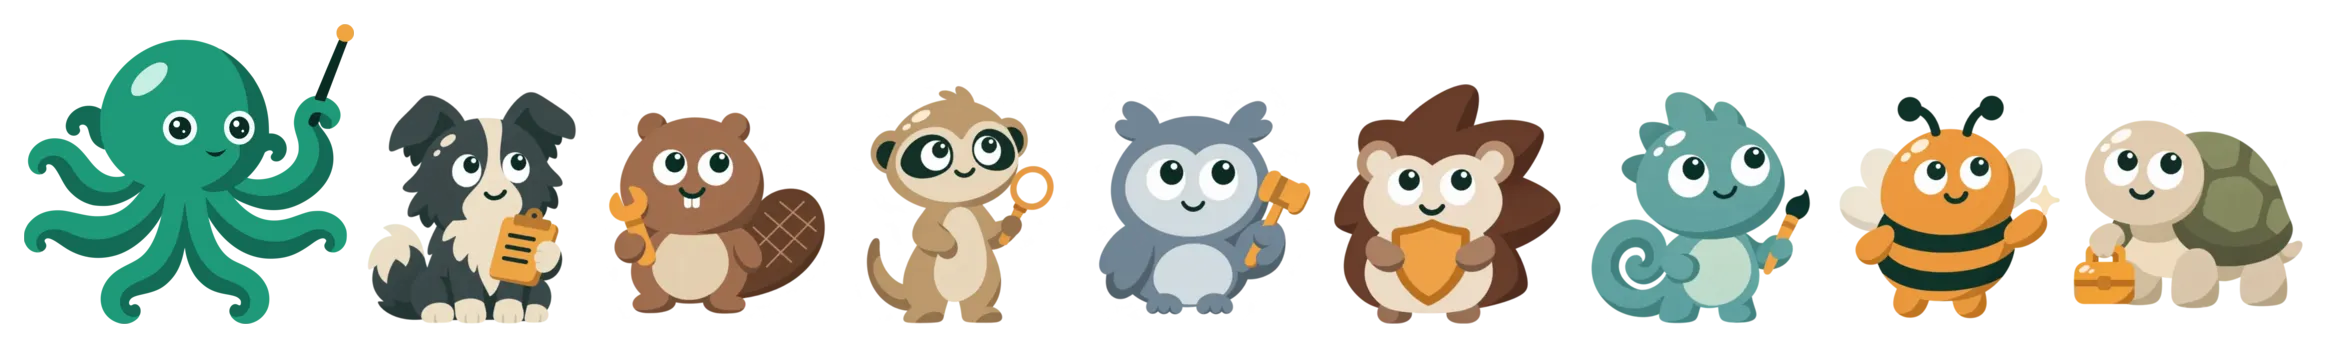
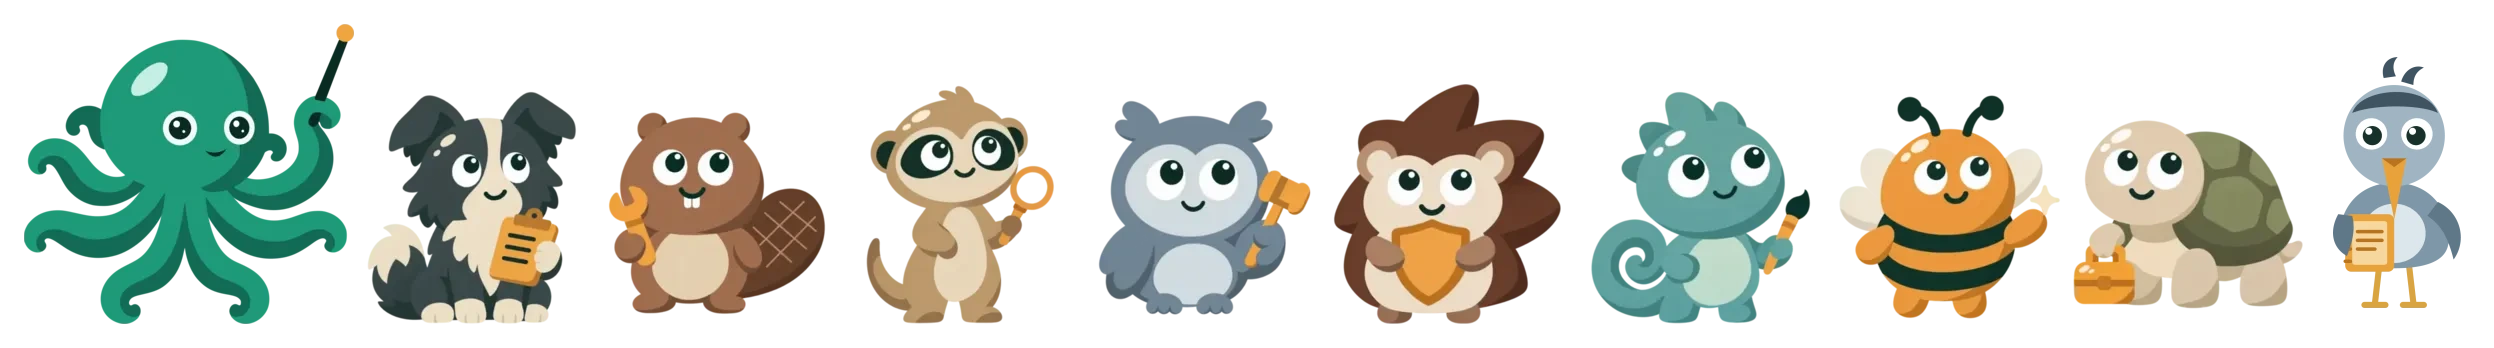
feat(team): draw the Technical writer as the heron after the tortoise in the team strip

diff --git a/docs/design/mocks/team.html b/docs/design/mocks/team.html
@@ -126,6 +126,7 @@
     <div class="role"><h3>Designer</h3><p>Joins when a task changes what people see.</p><p class="meta"><span>Model L</span><span>Work subscription</span></p></div>
     <div class="role"><h3>Security engineer</h3><p>Reviews anything touching secrets, logins or protected files.</p><p class="meta"><span>Model L</span><span>Overflow key</span></p></div>
     <div class="role"><h3>Maintainer</h3><p>Hands stalled work over, resolves conflicts and re-queues tasks.</p><p class="meta"><span>Model S</span><span>Overflow key</span></p></div>
+    <div class="role"><h3>Technical writer</h3><p>Joins when a change touches the pages people read and checks that a reader can follow them.</p><p class="meta"><span>Model M</span><span>Work subscription</span></p></div>
   </div>
 </aside>
 </div>

diff --git a/tests/Application/ReadmeTeamPictureTest.php b/tests/Application/ReadmeTeamPictureTest.php
@@ -10,20 +10,20 @@ use PHPUnit\Framework\TestCase;
 #[CoversNothing]
 final class ReadmeTeamPictureTest extends TestCase
 {
-    private const array ROLES = ['Tech lead', 'Developer', 'Code reviewer', 'Judge', 'Security engineer', 'Designer', 'AI engineer', 'Maintainer'];
+    private const array ROLES = ['Tech lead', 'Developer', 'Code reviewer', 'Judge', 'Security engineer', 'Designer', 'AI engineer', 'Maintainer', 'Technical writer'];
 
     public function testTheTeamPictureServesTheDarkImageForADarkColorScheme(): void
     {
         $picture = $this->picture();
 
-        self::assertSame(1, preg_match('/<source media="\(prefers-color-scheme: dark\)" srcset="docs\/assets\/team-dark\.webp" width="760" height="116">/', $picture));
+        self::assertSame(1, preg_match('/<source media="\(prefers-color-scheme: dark\)" srcset="docs\/assets\/team-dark\.webp" width="760" height="104">/', $picture));
         self::assertFileExists($this->root().'/docs/assets/team-dark.webp');
     }
 
     // One sharp file per theme, shown at 760 px: phones that skip a srcset would otherwise stretch a 760 px file and blur it.
     public function testTheTeamPictureDimensionsMatchTheImageFilesTheyDescribe(): void
     {
-        foreach (['light' => 113, 'dark' => 116] as $theme => $height) {
+        foreach (['light' => 101, 'dark' => 104] as $theme => $height) {
             $image = getimagesize($this->root().'/docs/assets/team-'.$theme.'.webp');
 
             self::assertIsArray($image);
@@ -41,7 +41,7 @@ final class ReadmeTeamPictureTest extends TestCase
         self::assertFileExists($this->root().'/docs/assets/team-light.webp');
     }
 
-    public function testTheTeamPictureAltNamesTheOctopusAndAllEightRoles(): void
+    public function testTheTeamPictureAltNamesTheOctopusAndAllNineRoles(): void
     {
         $alt = $this->imgAttribute('alt');
 
@@ -75,7 +75,7 @@ final class ReadmeTeamPictureTest extends TestCase
         self::assertIsInt($screenshot, 'The README shows the review page on its first screen.');
         $picture = (int) strpos($readme, '<picture>', $screenshot);
         $release = (int) strpos($readme, '## Status');
-        $line = 'Tech lead, Developer, Code reviewer, Judge, Security engineer, Designer, AI engineer and Maintainer';
+        $line = 'Tech lead, Developer, Code reviewer, Judge, Security engineer, Designer, AI engineer, Maintainer and Technical writer';
 
         self::assertGreaterThan($screenshot, $picture);
         self::assertLessThan($release, $picture);

diff --git a/docs/architecture/dashboard.md b/docs/architecture/dashboard.md
@@ -88,4 +88,4 @@ Plan task T20, parts 1 to 3 (design: [Dashboard](../design/05-architecture/13-da
 - **The drop reason on the review page (#2278, part 3 of #2215, decision D1 in part):** `RoundPayloads::droppedOf()` reads the `dropped` entries of a `judge_done` row one by one into the Review module's `Contract/DroppedFinding` (an unreadable entry is left out; a row without the key reads with none), and `judgeOf()` leaves `dropped` unread beside `findings`, so a bad drop entry never un-judges the round. `LedgerRounds` maps each into a `Domain/RoundFinding` whose `droppedBecause` is the reason and whose `quotes` is the Review contract's `CountedQuotes::of()` of its text (a `QuotesCounted`, the quotes the quote check counted, in its order, so as many as the reason names; #3171, part 2 of #3144; `LedgerReviewPages` passes its `CountedQuotes` in), and sets the list with `ReviewedRound::withDropped()` on a judged round, so the live judged update (`MercureRoundUpdates`, which renders the same `ReviewedRound`) carries it too. `_judged_round.html.twig` lists them after the judged cards as `<li data-finding="<id>" data-dropped="<id>">` (the `data-finding` lets `finding-highlight.js` and `task-panes.js` reach a dropped card from a finding id, as they reach a judged one) with the severity chip, the text (autoescaped, through `_finding_card_text.html.twig` as on a judged card: the headline as the title, the whole text below it when it goes on), the place, `p.fc-call` "Quote not found in the code" and a closed `details.fc-quotes` ("Quoted code") holding `ul.fc-quote-list` with one `<code>` per counted quote, under each the changed lines the row recorded for it as `ul.fc-near-lines` (one item per line, `span.fc-near-place` `<file>:<line>` in mono and the line's text in `<code>`, autoescaped; the list is left out when the row recorded no line for the quote, as for a row written before `DroppedFinding::$nearest` existed; `LedgerRounds` passes `$nearest` into `RoundFinding`, whose `nearLinesOf()` finds the entry whose recorded `quote` equals the counted quote with `array_find()`, so a repeated quote shows its lines each time and the page never reads the change; a quote whose recorded form differs from the counted one, because the recording redacted it (the quote is kept whole, never cut), shows no lines; the lines are styled as an indented list taking the whole row), and `p.fc-unchecked` "File names, numbers and suggested-fix blocks are not checked." (both only when the check counted a quote) and `p.fc-reason` `Dropped before the judge: <reason>` (all autoescaped; the template never reads the quotes from the text itself, neither through `finding_spans()` nor otherwise; `assets/styles/components.css` styles the summary as a link-colored control with the shared chevron, at least 44 px tall at 760 px wide or narrower, and the quotes as wrapping code chips that keep a quote's line breaks and indentation, `white-space: pre-wrap`; the demo recording's captured judged update holds the same row, see [Demo recording](demo-recording.md)); a dropped finding is not in `findings`, so it is not counted in `ReviewSummary`'s finding count, and a round with only dropped findings no longer reads "The reviewers reported no findings". Tests: `LedgerRoundsTest`, `JudgedRoundFindingsPageTest`, and `MergedActEntryPageTest`, which runs a round through `ReviewChange` with a finding quoting an absent name (shown as dropped with its reason) and one with only an absent symbol (judged).
 - **A judged round's findings as cards (#2254, part 2 of #2202, decisions D3 and D4):** `_judged_round.html.twig` (which `_round_body.html.twig` includes, and the judged round's live update renders, see above) lists a judged round's findings as `ul.finding-cards` (one grid column, no `.table-scroll` box) of `li.finding-card`, each keeping `id="round-<id>-finding-<finding id>"` and `data-finding` (every id of the entry, separated by spaces) for the state block's links and the highlight: a `.sev` chip (the severity, or `Severity not recorded`), `p.fc-title` and, only when the text goes on after its headline (`RoundFinding::goesOnAfterItsHeadline()`), `p.fc-detail` (both from `_finding_card_text.html.twig`: the title is the finding's own id in `.fc-id`, then `.fc-text`, which holds `RoundFinding::headline()` read into spans by `finding_spans`, or `Text not recorded.` when the headline is null; `p.fc-detail` holds the whole text through `_finding_text.html.twig`), `p.fc-place` (`RoundFinding::place()`, `file:line` in mono, the file alone without a line, or `File and line not recorded`), `p.fc-merged` (only on an entry that merged others: `Also reported as` and their ids) and `p.fc-call` (`callInWords()`). `RoundFinding::headline()` trims the text with a Unicode-aware pattern (`[\s\p{Z}]`, so a no-break space or an em space counts as white space) and returns null for a text that is missing, blank or not valid UTF-8; otherwise it finds the closed code spans on the whole text as `FindingText` does (a run of backticks closed by a run of as many, across lines too), and cuts at the first line break or sentence mark (`.`, `!` or `?` followed by white space or the end) outside them, so `` Keep `Ready? yes` as the prompt. More. `` gives `` Keep `Ready? yes` as the prompt. `` and a dot in a name (`src/A.php`, `1.5`) never ends it; an unclosed backtick is a plain character, white space before a cut line break is dropped, and a text with no such cut is its own headline. The text comes from `_finding_text.html.twig`, which the state block's open findings share: it renders `FindingText::spans()` (through the `finding_spans` Twig function, so the session summary's findings, which are the Review module's `Finding`, read backticks the same way), the text split into plain and code spans (a span opens with a run of backticks and closes on a run of as many, as in Markdown, so a span opened by two backticks may hold one; the backticks are dropped and the code trimmed; a run of backticks that closes nothing makes the word after it, up to the next space or backtick, a code span, and is dropped when no word follows, so no backtick is left), the bold and italic marks (`**x**`, `__x__`, `*x*`, `_x_`) around words in the plain spans left out and never in a code span (an opening mark follows the start, a space, a bracket or a quote, curly quotes included, and a closing one precedes the end, a space, a bracket, a quote, a dash (`-`, or an en or em dash, U+2013 or U+2014, so `**read**-only` reads as `read-only`) or a run of punctuation such as `...`, and a closing mark followed by punctuation pairs only when a space, the end, a bracket, a quote, a dash or a code span follows the punctuation, so comma-separated globs such as `*.php,*.twig` keep their stars (only while the list does not end in a star: in `*.php,build*` the first and the last star pair, so it reads as `.php,build`, and written in backticks, `` `*.php,build*` ``, it is a code span that keeps both), `**wrong**,it` stays as written and `**wrong**, it` reads as `wrong, it`; the text between holds no mark of its own character and no blank line, of any length, so `max_retry_count`, `2 * 3`, `src/**/x`, `(*.php|*.twig)`, a star in each of two paragraphs and a lone dunder such as `__DIR__` or `__init_subclass__` keep their marks; a blank line counts with any line ending, `\n`, `\r\n` or a bare `\r`; a mark followed by `/`, or a closing one preceded by `/`, never pairs (so `**ignore paths under /tmp/**` keeps its marks unless the path is written in backticks), and a single mark followed by `.` pairs only around one word, so `*.env*` reads as `.env` while `*.php` and `src/*` keep their stars even in one line, and a double mark followed by `.` pairs around any words, so `**.env stays private**` loses its marks; and `*.*` keeps both stars; limits: `*test.php and build*` in one paragraph still pairs, and so does a star before a dash, since a dash may follow a closing mark, so `Match *-test.php and build*-old.` reads as `Match -test.php and build-old.`; a code span holding a blank line parts two paragraphs too, also when the blank line sits at the span's edge (the span is trimmed only after the marks are read) or is written with the Unicode separators U+2028, U+2029 or U+0085, while a mark right before or after a code span (`` `foo`*bar* ``, `` **x**`y` ``) pairs as after a space; the patterns run twice, so emphasis nested one level deep (`*_both_*`, `*outer _inner_ words*`, `**outer *inner* words**`) loses all its marks; an ellipsis never stands in for a missing closing mark, so `Copy *.php…` and `Match **kwargs…` stay as written on a card, in the Now box, in the session summary and in the live log, while a pair closed right before an ellipsis still loses its marks, so `*Retry*…` reads as `Retry…`), each code span in `<code>` with Twig's escaping, never `raw`. The live log reads the emphasis on the complete first line and cuts afterwards: `ReadFinding::$title` holds the whole first line, and `answer_read.stream.html.twig` renders it through the `finding_title_spans` Twig function (`FindingSpans::ofATitle()`, `FindingText::spansCutTo(160)`), which reads the spans of the whole line and, when their visible text is longer than 160 characters, keeps the first 159 (by characters, a code span cut like the plain text), drops the spaces at the end and adds `…`, so a cut never leaves a mark and a cut `*Test.php` keeps its star. Both partials render the spans through `_finding_spans.html.twig`. `components.css` gives a card the `--raised` background and `overflow-wrap: anywhere`, a code span the `--tint` background, and at 760 px and below wraps the card so its body takes the full width under the chip. Tests: `FindingTextTest` (the spans, a double-backtick span, no empty span, an unmatched backtick before a word and before a space, runs of different lengths, no text; the emphasis cases: bold, italic and underscore marks, marks around code and in code, a closing mark right before a dash, a closing mark before punctuation with and without a space after it (`**wrong**,it`, `**wrong**, it`, `*.php,*.twig`, `*Test.php,*Case.php`), code-like text with a dash after a mark, emphasis ending in a slash, words, arithmetic, paths, dunders, globs, curly quotes, `**.env**`, `**.env stays private**`, long emphasis, paragraphs with each line ending, `*.*`, nested emphasis (`*_both_*`, `_*both*_`, `*outer _inner_ words*`, `**outer *inner* words**`, `__outer *inner* words__`), stars around a code span holding a blank line, one at its edge and Unicode separators, a mark touching a code span from outside, an ellipsis the reviewer wrote, `*Retry*…`, linear time on many unclosed marks, a glob star before a dash pairing with a later star (the known limit), a comma-separated list ending in a star losing both stars and keeping them in backticks; the cut: a text within the limit, one character over it, a cut at each offset around a closing `**`, `__` and `*`, inside multiword emphasis, just after an opening `**`, inside a code span and of multibyte characters, and a glob cut or before the cut keeping its star), `FindingSpansTest` (the `finding_title_spans` Twig function, as the container registers it, dropping emphasis marks and cutting a long title to 160 characters with `…`, and `finding_spans` returning a backtick span as code), `ReadAnswerTest` (a long first line kept whole, a first line ending at `\r\n`, `\n` or a bare `\r`), `ReviewPageLiveUpdatesTest` (a title cut at each offset around its closing mark, a long title naming a glob, and a written ellipsis, on the live log line), `RoundFindingTest` (each place; the headline: the first sentence, a mark inside a code span of one or two backticks, a closed span with no mark after it or a second line below, a span crossing a line, an unclosed backtick, white space before a line break, a long first sentence, Unicode white space, no text and invalid UTF-8; whether the text goes on), `JudgedRoundFindingsPageTest` (a card's chip, id and text, place and call; the headline as the title with the whole text below it, no text below a one-sentence title, `Text not recorded.` for a text of Unicode white space; code spans as code with no backtick left and markup escaped; an unmatched backtick; markup in text and code staying text; each drop reason; a finding without a file; the anchor; no table; the state block's code spans), `TaskDetailStylesTest` (the column of cards, the selected card, the phone rule).
 - Tests: `tests/Core/Dashboard/` has a functional test per page (the ledger in the test container is a double; `ShowReviewControllerTest` covers a two-round review with several reviewers, findings with ids, the judge's call and tokens), `StartReviewControllerTest` (the button dispatches `StartReview` once and redirects to a toast naming the round number and no round id, with no line above the page, and a refused start shows no toast, the page carries the number after the latest round and a stale page sends the number it showed, a missing or wrong token or a missing number dispatches nothing, `RoundNotNext` gives an error line, a failure that is no `ReportableFailure` gives the server error page, no recorded repository gives no button, the label "Start round N", only Stop shown, with the start form behind the in-review marker, with a running reviewer, before any reviewer and after every reviewer finished unjudged, and only "Start round N" once judged), `ReviewPageLiveUpdatesTest` (every reviewer finished unjudged keeps the marker and Stop, a judged round removes both and shows the start), `TaskDetailStylesTest` (the hiding rule), `NoPollingTest` (a list page the hub cannot authorize a listener for holds two scripts, the inline theme and shell scripts, and no script file, module, `http-equiv`, timer, `fetch(` or event source; the review page with the start button no `http-equiv`, timer or `fetch(`), `ShowBoardControllerTest` (`/` is the board with Waiting on you, In review and Done and one Coming next line without a control naming the other six columns, review cards in In review and Done with their project, link, round, reviewers and cost, true counts, every empty column's `BoardColumn::emptyLine()` once a review has run and no empty line in a column with a card, Waiting on you pinned first as the only `col-needs` column with its empty line and a 0 count without amber, a link to the review list, and refuses a foreign host), `TemplateRouteNamesTest` (no template spells a `dashboard_` route name; links take it from `DashboardRoutes`), `FailedReviewerPageTest` (a round run through `ReviewChange` with a scripted vendor that stops one reviewer at the output limit: the page shows it `failed` with `stopped at its output limit`, the outcome `intakt:review` reports, and no class name), `LedgerReviewsTest`, `LedgerRoundsTest` (also the outcome under each case: a failed reviewer beside an approval or a changes verdict, outvoted under `majority`, an unstarted reviewer, an unjudged round, a start without or with an unknown `quorum`) and `ReviewerStopsTest` for rows in today's format, older rows and the skipped payloads, `LedgerFailingHeadsTest` for which failure lines make a card and `RefuseForeignHostTest` for the hosts each page refuses and answers. For the start path: `tests/Plugin/LocalGitForge/StartReviewHandlerTest.php` (no wait for the judge, the expected number passed on, a relative repository recorded absolute, a refused round leaves no snapshot, a start without a source refused), `RemoveKeptSnapshotTest.php` in the same folder (a kept snapshot is removed, the user's checkout and a command's own snapshot are left alone, a failed removal is logged), `DiscardQueuedRoundHandlerTest.php` (the kept snapshot of a rolled-back round is removed, the user's checkout is left alone) and the `RoundJudged` tests in `tests/Core/Review/UseCase/JudgeRound/JudgeRoundTest.php` (announced once, not again for a round judged already).
-- **README team picture (#2412, part 3 of #2345):** `README.md` shows `docs/assets/team-light.webp` (`team-dark.webp` for `prefers-color-scheme: dark`) in a `<picture>` below the "Found and fixed upstream" section, just before "The first release", 760 px wide with its height set, each theme from its one sharp file (at least 2,280 px wide; a 760 px copy is not kept, because phone browsers that skip `srcset` stretched it and blurred the characters; the dark source carries its own height of 116 because its file is slightly taller), `loading="lazy"` and an `alt` naming the octopus and the eight roles; one line under it names the roles in order. It is decoration beside unchanged text. `tests/Application/ReadmeTeamPictureTest.php` checks the markup.
+- **README team picture (#2412, part 3 of #2345):** `README.md` shows `docs/assets/team-light.webp` (`team-dark.webp` for `prefers-color-scheme: dark`) in a `<picture>` below the "Found and fixed upstream" section, just before "The first release", 760 px wide with its height set, each theme from its one sharp file (at least 2,280 px wide; a 760 px copy is not kept, because phone browsers that skip `srcset` stretched it and blurred the characters; the dark source carries its own height of 104 because its file is slightly taller), `loading="lazy"` and an `alt` naming the octopus and the nine roles; one line under it names the roles in order. It is decoration beside unchanged text. `tests/Application/ReadmeTeamPictureTest.php` checks the markup.

diff --git a/README.md b/README.md
@@ -60,11 +60,11 @@ Building Intakt led to 13 fixes (12 pull requests) merged upstream in Symfony, S
 
 <p align="center">
   <picture>
-    <source media="(prefers-color-scheme: dark)" srcset="docs/assets/team-dark.webp" width="760" height="116">
-    <img src="docs/assets/team-light.webp" alt="The Intakt team: the octopus conductor with a baton, then the Tech lead, Developer, Code reviewer, Judge, Security engineer, Designer, AI engineer and Maintainer, each drawn as an animal with its tool" width="760" height="113" loading="lazy">
+    <source media="(prefers-color-scheme: dark)" srcset="docs/assets/team-dark.webp" width="760" height="104">
+    <img src="docs/assets/team-light.webp" alt="The Intakt team: the octopus conductor with a baton, then the Tech lead, Developer, Code reviewer, Judge, Security engineer, Designer, AI engineer, Maintainer and Technical writer, each drawn as an animal with its tool" width="760" height="101" loading="lazy">
   </picture>
   <br>
-  The octopus conducts: Tech lead, Developer, Code reviewer, Judge, Security engineer, Designer, AI engineer and Maintainer, in that order.
+  The octopus conducts: Tech lead, Developer, Code reviewer, Judge, Security engineer, Designer, AI engineer, Maintainer and Technical writer, in that order.
 </p>
 
 ## Status

diff --git a/docs/reference/user-manual.md b/docs/reference/user-manual.md
@@ -6,7 +6,7 @@ For owners who run Intakt. Each feature gets a page here, written in the same ch
 
 Intakt runs on PHP 8.5.12 or later and Symfony 8.2, which is a beta until 8.2.0 is released: an install holds Symfony 8.2.0-BETA2, locked before it was 3 days old by the owner's one-time exception ([The release cooldown for dependencies](#the-release-cooldown-for-dependencies)).
 
-The [README](../../README.md) opens with a picture of the whole team: the octopus conducts, then the Tech lead, Developer, Code reviewer, Judge, Security engineer, Designer, AI engineer and Maintainer, in that order. It follows your light or dark color scheme and is decoration only.
+The [README](../../README.md) opens with a picture of the whole team: the octopus conducts, then the Tech lead, Developer, Code reviewer, Judge, Security engineer, Designer, AI engineer, Maintainer and Technical writer, in that order. It follows your light or dark color scheme and is decoration only.
 
 The path from a clone to a first verdict, in order:
 
